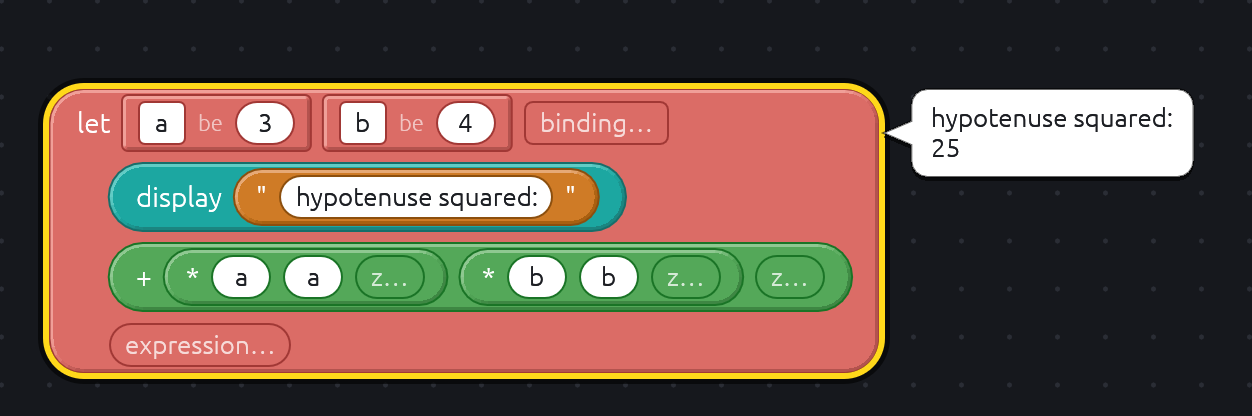
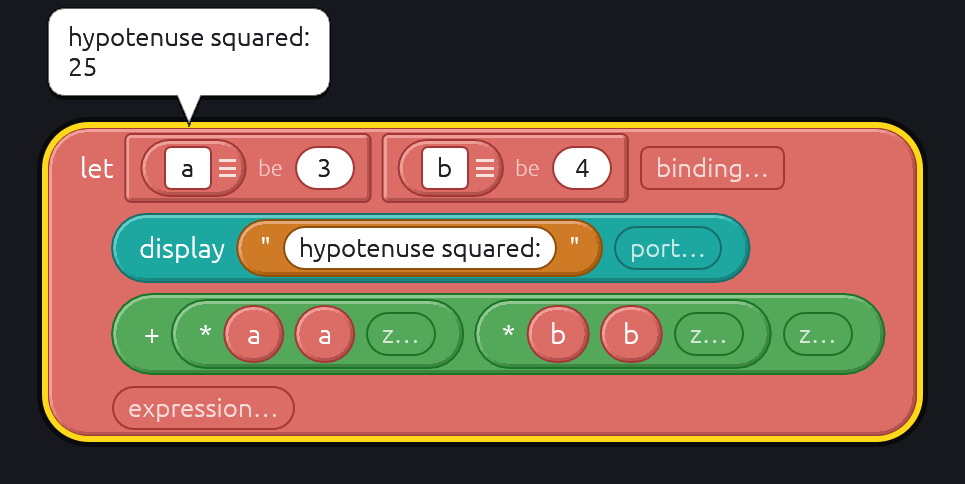
Snapshot program files, and let a slot reshape its reporter
The editor's `--command snapshot` takes a program before the PNG, and
Block Schemer gains `--snapshot <program.scmb> <out.png>` behind a
`snapshot` feature (`cargo schemer-snapshot`), since only it has its
validators. The README images are regenerated with it.

A type with `reshape: true` draws reporters in its slots in its own
shape; Block Schemer's `procedure` slots now square what they hold.

diff --git a/crates/block-parse-gui/src/bin/editor.rs b/crates/block-parse-gui/src/bin/editor.rs
@@ -27,15 +27,19 @@ struct Args {
     #[arg(long, value_delimiter = ',')]
     tags: Option<Vec<String>>,
     /// The program to open, created on first save if it does not exist. For
-    /// `snapshot`, the PNG to write.
+    /// `snapshot`, the program to render, or with no PNG after it, the PNG
+    /// to write the language's blocks to.
     program: Option<PathBuf>,
+    /// With `--command snapshot`: the PNG to write the program to.
+    output: Option<PathBuf>,
 }
 
 #[derive(Debug, Clone, Copy, PartialEq, Eq, ValueEnum)]
 enum Command {
     /// Open the editor window.
     Editor,
-    /// Render every block in the language, a column per category, to a PNG.
+    /// Render a program to a PNG, or without one, every block in the
+    /// language, a column per category.
     Snapshot,
 }
 
@@ -56,7 +60,23 @@ fn main() -> ExitCode {
         eprintln!("--tags is for --command snapshot");
         return ExitCode::from(2);
     }
+    if args.output.is_some() && args.command != Command::Snapshot {
+        eprintln!("only --command snapshot takes a second path");
+        return ExitCode::from(2);
+    }
     if args.command == Command::Snapshot {
+        let (program, output) = match (args.program, args.output) {
+            (Some(program), Some(output)) => (Some(program), output),
+            (Some(output), None) => (None, output),
+            (None, _) => {
+                eprintln!("no output given: pass the path of the PNG to write");
+                return ExitCode::from(2);
+            }
+        };
+        if program.is_some() && args.tags.is_some() {
+            eprintln!("--tags is for snapshots of the language's blocks, not of a program");
+            return ExitCode::from(2);
+        }
         let unknown: Vec<&str> = args
             .tags
             .iter()
@@ -68,7 +88,7 @@ fn main() -> ExitCode {
             eprintln!("no block is tagged {}", unknown.join(", "));
             return ExitCode::from(2);
         }
-        return snapshot(&language, args.tags.as_deref(), args.program.as_deref(), args.scale);
+        return snapshot(&language, program.as_deref(), args.tags.as_deref(), &output, args.scale);
     }
     app::run(AppConfig {
         name: "block-parse-editor".into(),
@@ -81,30 +101,24 @@ fn main() -> ExitCode {
 }
 
 #[cfg(feature = "snapshot")]
-fn snapshot(language: &Language, tags: Option<&[String]>, output: Option<&Path>, scale: f32) -> ExitCode {
-    let Some(output) = output else {
-        eprintln!("no output given: pass the path of the PNG to write");
-        return ExitCode::from(2);
+fn snapshot(language: &Language, program: Option<&Path>, tags: Option<&[String]>, output: &Path, scale: f32) -> ExitCode {
+    use block_parse_gui::{Theme, snapshot};
+
+    let image = match program {
+        Some(program) => snapshot::program_file(language, program, &Theme::default(), scale),
+        None => snapshot::grid(language, tags, &Theme::default(), scale),
     };
-    let image = match block_parse_gui::snapshot::grid(language, tags, &block_parse_gui::Theme::default(), scale) {
-        Ok(image) => image,
-        Err(error) => {
-            eprintln!("could not render: {error}");
-            return ExitCode::FAILURE;
-        }
-    };
-    match image.save_with_format(output, image::ImageFormat::Png) {
+    match image.and_then(|image| snapshot::save(&image, output)) {
         Ok(()) => ExitCode::SUCCESS,
         Err(error) => {
-            eprintln!("{}: {error}", output.display());
+            eprintln!("could not snapshot: {error}");
             ExitCode::FAILURE
         }
     }
 }
 
 #[cfg(not(feature = "snapshot"))]
-fn snapshot(_: &Language, _: Option<&[String]>, _: Option<&Path>, _: f32) -> ExitCode {
+fn snapshot(_: &Language, _: Option<&Path>, _: Option<&[String]>, _: &Path, _: f32) -> ExitCode {
     eprintln!("built without snapshots: rebuild with --features snapshot");
     ExitCode::from(2)
 }
-

diff --git a/crates/block-parse-gui/src/layout.rs b/crates/block-parse-gui/src/layout.rs
@@ -273,12 +273,17 @@ impl Layout<'_> {
     }
 
     fn block(&self, block: &Block) -> Laid {
+        self.shaped(block, None)
+    }
+
+    /// `shape` overrides a reporter's own, as a `reshape` slot asks.
+    fn shaped(&self, block: &Block, shape: Option<Shape>) -> Laid {
         let Some(def) = self.language.block(&block.opcode) else {
             return self.unknown(block);
         };
         let swatch = self.swatch(self.declarer(block).unwrap_or(def));
         match &def.kind {
-            BlockKind::Reporter(_) => self.reporter(block, def, swatch),
+            BlockKind::Reporter(_) => self.reporter(block, def, swatch, shape),
             BlockKind::Hat | BlockKind::Statement | BlockKind::Cap | BlockKind::HatCap => {
                 self.stack_block(block, def, swatch)
             }
@@ -330,12 +335,13 @@ impl Layout<'_> {
         }
     }
 
-    fn reporter(&self, block: &Block, def: &BlockDef, swatch: Swatch) -> Laid {
-        let shape = def
-            .kind
-            .output()
-            .and_then(|ty| self.language.ty(ty))
-            .map_or(Shape::Round, |ty| ty.shape);
+    fn reporter(&self, block: &Block, def: &BlockDef, swatch: Swatch, shape: Option<Shape>) -> Laid {
+        let shape = shape.unwrap_or_else(|| {
+            def.kind
+                .output()
+                .and_then(|ty| self.language.ty(ty))
+                .map_or(Shape::Round, |ty| ty.shape)
+        });
         let rows = self.rows(block, def, &def.parts);
         let height_of = |row: &[Item]| {
             let inner = row.iter().map(|item| item.size().y).fold(0.0, f32::max);
@@ -608,7 +614,7 @@ impl Layout<'_> {
             .and_then(|stored| stored.block.as_deref())
             .filter(|inner| Some(inner.id) != self.lifted);
         if let Some(inner) = plugged {
-            let laid = self.block(inner);
+            let laid = self.shaped(inner, ty.filter(|ty| ty.reshape).map(|ty| ty.shape));
             return Item::Slot {
                 slot,
                 ty: ty_name.to_owned(),
@@ -1204,6 +1210,41 @@ mod tests {
         let scene = scene_of(&language, &program);
         assert!(placed(&scene, ids[0]).slots[0].covered);
         assert!(scene.grip_at(handle).is_none());
+    }
+
+    #[test]
+    fn a_reshaping_slot_gives_its_shape_to_the_reporter_in_it() {
+        let language = Language::from_ron(
+            r#"Language(
+                name: "shapes",
+                file: (extension: "s"),
+                types: {
+                    "value": (shape: Round, literal: Text),
+                    "procedure": (shape: Square, accepts: All, reshape: true),
+                    "loose": (shape: Square, accepts: All),
+                },
+                blocks: [
+                    (id: "one", name: "One", kind: Reporter("value"), spec: "one"),
+                    (id: "apply", name: "Apply", spec: "apply {f:procedure} {g:loose}"),
+                ],
+            )"#,
+            &Validators::new(),
+        )
+        .unwrap();
+        let (mut program, ids) = with_stack(&language, &["apply"]);
+        let (f, g) = (program.instantiate(&language, "one").unwrap(), program.instantiate(&language, "one").unwrap());
+        let (f_id, g_id) = (f.id, g.id);
+        let apply = program.find_mut(ids[0]).unwrap();
+        apply.inputs.entry("f".into()).or_default().block = Some(Box::new(f));
+        apply.inputs.entry("g".into()).or_default().block = Some(Box::new(g));
+
+        let scene = scene_of(&language, &program);
+        let shape = |id| match placed(&scene, id).form {
+            Form::Reporter { shape, .. } => shape,
+            Form::Stack(_) => panic!("a reporter"),
+        };
+        assert_eq!(shape(f_id), Shape::Square);
+        assert_eq!(shape(g_id), Shape::Round, "its own shape unless the slot reshapes");
     }
 
     #[test]

diff --git a/crates/block-schemer/src/main.rs b/crates/block-schemer/src/main.rs
@@ -1,4 +1,5 @@
-//! `block-schemer [program.scmb]`
+//! `block-schemer [program.scmb]`, or with the `snapshot` feature,
+//! `block-schemer --snapshot <program.scmb> <out.png> [--scale <n>]`.
 
 // Without it, Windows opens a console window beside the app.
 #![cfg_attr(all(windows, not(debug_assertions)), windows_subsystem = "windows")]
@@ -17,7 +18,12 @@ const ICON: &[u8] = include_bytes!("../assets/icons/block-schemer.iconset/icon_5
 const ICON: &[u8] = include_bytes!("../assets/icons/icon-512.png");
 
 fn main() -> ExitCode {
-    let program = std::env::args_os().nth(1).map(PathBuf::from);
+    let mut args = std::env::args_os().skip(1);
+    let first = args.next();
+    if first.as_deref() == Some("--snapshot".as_ref()) {
+        return snapshot(args.collect());
+    }
+    let program = first.map(PathBuf::from);
     let language = block_schemer::language();
     app::run(AppConfig {
         name: "Block Schemer".into(),
@@ -27,6 +33,41 @@ fn main() -> ExitCode {
         menus: Menus::Native,
         icon: Some(app::icon_from_png(ICON).expect("the built-in icon is a PNG")),
     })
+}
+
+#[cfg(feature = "snapshot")]
+fn snapshot(args: Vec<std::ffi::OsString>) -> ExitCode {
+    use block_parse_gui::{Theme, snapshot};
+
+    let (paths, scale) = match &args[..] {
+        [paths @ .., flag, scale] if flag == "--scale" => match scale.to_str().and_then(|s| s.parse().ok()) {
+            Some(scale) => (paths, scale),
+            None => {
+                eprintln!("--scale takes a number of pixels per canvas unit");
+                return ExitCode::from(2);
+            }
+        },
+        paths => (paths, 2.0),
+    };
+    let [program, output] = paths else {
+        eprintln!("usage: block-schemer --snapshot <program.scmb> <out.png> [--scale <n>]");
+        return ExitCode::from(2);
+    };
+    let language = block_schemer::language();
+    let image = snapshot::program_file(&language, program.as_ref(), &Theme::default(), scale);
+    match image.and_then(|image| snapshot::save(&image, output.as_ref())) {
+        Ok(()) => ExitCode::SUCCESS,
+        Err(error) => {
+            eprintln!("could not snapshot: {error}");
+            ExitCode::FAILURE
+        }
+    }
+}
+
+#[cfg(not(feature = "snapshot"))]
+fn snapshot(_: Vec<std::ffi::OsString>) -> ExitCode {
+    eprintln!("built without snapshots: rebuild with --features snapshot");
+    ExitCode::from(2)
 }
 
 #[cfg(test)]

diff --git a/crates/block-parse-gui/src/snapshot.rs b/crates/block-parse-gui/src/snapshot.rs
@@ -2,6 +2,7 @@
 //! adapter.
 
 use std::collections::HashMap;
+use std::path::Path;
 
 use block_parse::host::Overlay;
 use block_parse::program::{BlockId, Program};
@@ -35,6 +36,19 @@ pub fn program(
 ) -> Result<RgbaImage, String> {
     let declarers = Layout::declarers(language, program);
     render(language, overlay, theme, scale, declarers, |layout| layout.program(program))
+}
+
+/// Load warnings, such as another language's name, do not stop it.
+pub fn program_file(language: &Language, path: &Path, theme: &Theme, scale: f32) -> Result<RgbaImage, String> {
+    let (loaded, _) = Program::load(path, language).map_err(|error| format!("{}: {error}", path.display()))?;
+    program(language, &loaded, &Overlay::default(), theme, scale)
+}
+
+/// Writes `image` to `path` as a PNG, whatever its extension.
+pub fn save(image: &RgbaImage, path: &Path) -> Result<(), String> {
+    image
+        .save_with_format(path, image::ImageFormat::Png)
+        .map_err(|error| format!("{}: {error}", path.display()))
 }
 
 /// Every block in the language, or only those with a tag in `tags`, laid

diff --git a/crates/block-parse/src/language.rs b/crates/block-parse/src/language.rs
@@ -60,6 +60,9 @@ pub struct TypeConfig {
     /// values typed only at run time, such as a variable getter's.
     #[serde(default)]
     pub fits: TypeSet,
+    /// Reporters in this type's slots take its shape instead of their own.
+    #[serde(default)]
+    pub reshape: bool,
 }
 
 /// One side of type compatibility. A reporter fits a slot when the types are
@@ -262,6 +265,7 @@ pub struct TypeDef {
     pub literal: LiteralKind,
     pub accepts: TypeSet,
     pub fits: TypeSet,
+    pub reshape: bool,
 }
 
 #[derive(Debug, Clone, PartialEq)]
@@ -616,6 +620,7 @@ impl LanguageConfig {
                     literal: config.literal.clone(),
                     accepts: config.accepts.clone(),
                     fits: config.fits.clone(),
+                    reshape: config.reshape,
                 },
             );
         }

diff --git a/AGENTS.md b/AGENTS.md
@@ -36,7 +36,8 @@ block editor in `~/rust/jellycell/src/coder/`, which is one hard-coded case.
     built in. A reporter fits a slot on an exact type match, or when the
     slot's type `accepts` it or the reporter's type `fits` the slot; the last
     two appear in the AST as `Expr::Convert`, and converting is the consumer's
-    job.
+    job. A reporter keeps its own shape in a slot, unless the slot's type
+    has `reshape`, which draws it in the slot's.
   - `literal`: literals are stored as typed and parsed when the AST is built,
     so invalid text stays in the program and shows as a problem. Built-in
     kinds (Float with e-notation, Integer, Number as an i64|f64 union,
@@ -118,9 +119,10 @@ block editor in `~/rust/jellycell/src/coder/`, which is one hard-coded case.
   winit's default menu is off, since `terminate:` would skip the save prompt.
   Feature `snapshot` (off by default) renders programs to images offscreen
   through egui_kittest's wgpu renderer; with it, `--command snapshot` (`cargo
-  snapshot -l <language> <out.png>`) writes `Layout::grid`, every block in a
-  column per category, or with `--tags="a,b"` only blocks with one of those
-  tags, instead of opening the window.
+  snapshot -l <language> [program] <out.png>`) writes the program, or
+  without one `Layout::grid`, every block in a column per category, or with
+  `--tags="a,b"` only blocks with one of those tags, instead of opening the
+  window.
 - `crates/block-schemer` — Block Schemer, a consumer: R7RS's standard
   procedures (short of files, process, eval and mutating pairs and strings)
   and a few of its forms, whose blocks run in Steel when double-clicked;
@@ -133,12 +135,14 @@ block editor in `~/rust/jellycell/src/coder/`, which is one hard-coded case.
   it said into the console. Code shown in the console or Inspect is as
   entered, unless the "Schemer Harness" toggle (off by default) shows the
   `__out` port that carries `display` to the console (`cargo schemer
-  [program.scmb]`,
-  `documentation/05-block-schemer.md`). Its language is embedded; its
+  [program.scmb]`, `documentation/05-block-schemer.md`). Its feature
+  `snapshot` adds `--snapshot <program.scmb> <out.png> [--scale <n>]`
+  (`cargo schemer-snapshot`), as the editor's, with its own validators. Its language is embedded; its
   `codegen` turns its blocks into Scheme, refusing a script with problems,
   and escapes strings before Scheme sees them, and writes a procedure
   block with nothing filled in by name in a square `procedure` slot
-  (`call`'s operator, `fold`, `map`, `apply`); `define`, `define …
+  (`call`'s operator, `fold`, `map`, `apply`), which squares whatever is
+  plugged into it; `define`, `define …
   _taking_`, `lambda` and `let` (through `binding`) are scopes whose
   references are `variable` blocks, definitions' names global; Inspect shows the same code
   pretty-printed, with `<name>` for each missing or faulty input. Steel sits
@@ -227,8 +231,11 @@ To check a drawing change without opening a window, render every block of a
 language and look at the image:
 `cargo snapshot -l examples/languages/tiny.ron <scratch>/tiny.png`
 (`--scale` sets pixels per canvas unit, default 2; `--tags="a,b"` keeps
-only blocks with one of those tags). For a particular program,
-call `block_parse_gui::snapshot::program`.
+only blocks with one of those tags). For a program file, put it before the
+PNG; Block Schemer's need `cargo schemer-snapshot <program.scmb> <out.png>`,
+whose validators the editor lacks. For a program with an overlay (bubbles,
+highlights), call `block_parse_gui::snapshot::program`. The README's images
+come from these.
 
 ## Deferred
 

diff --git a/documentation/05-block-schemer.md b/documentation/05-block-schemer.md
@@ -9,6 +9,7 @@ that hands them to `block_parse_gui::app::run`.
 ```sh
 cargo schemer                                              # a new program
 cargo schemer crates/block-schemer/examples/sum-of-squares.scmb
+cargo schemer-snapshot crates/block-schemer/examples/factorial.scmb factorial.png  # an image, no window
 ```
 
 ![Runs answered by Steel](images/04-schemer-run.png)
